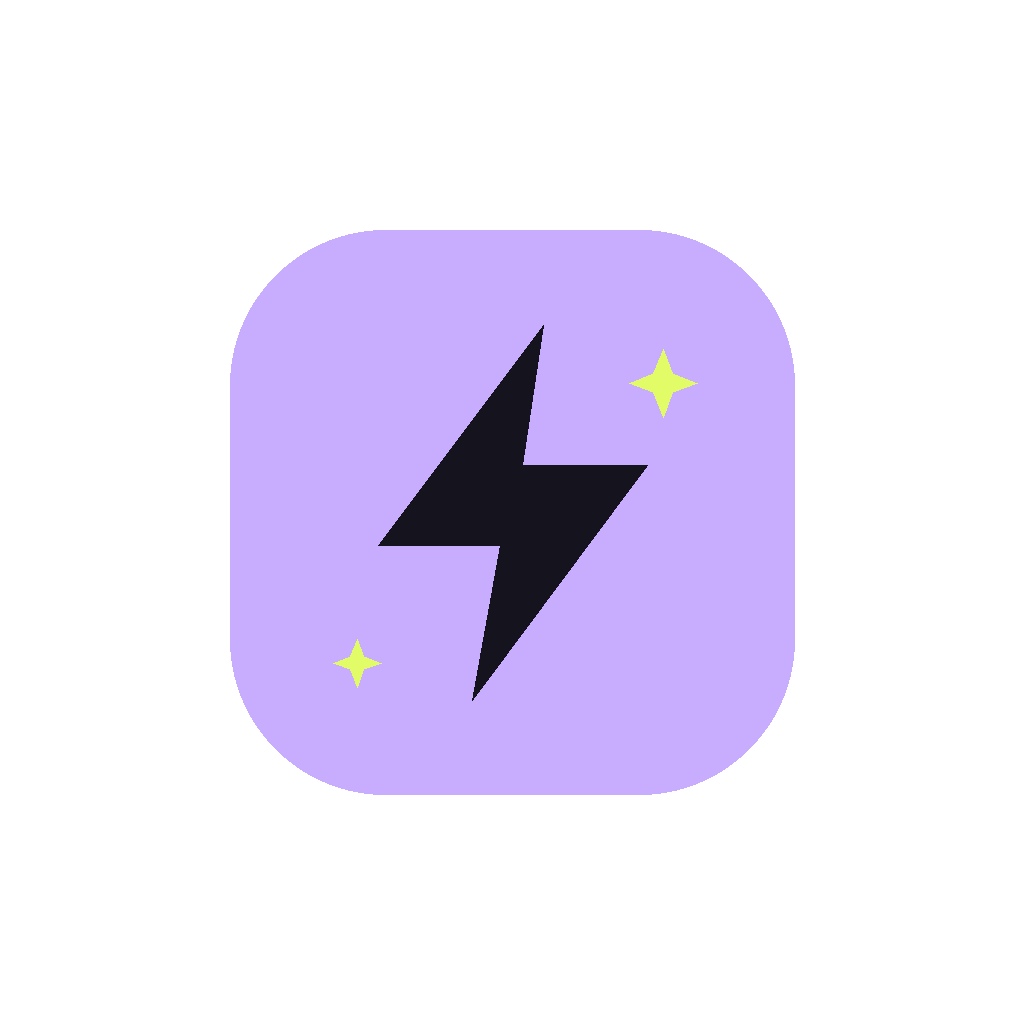
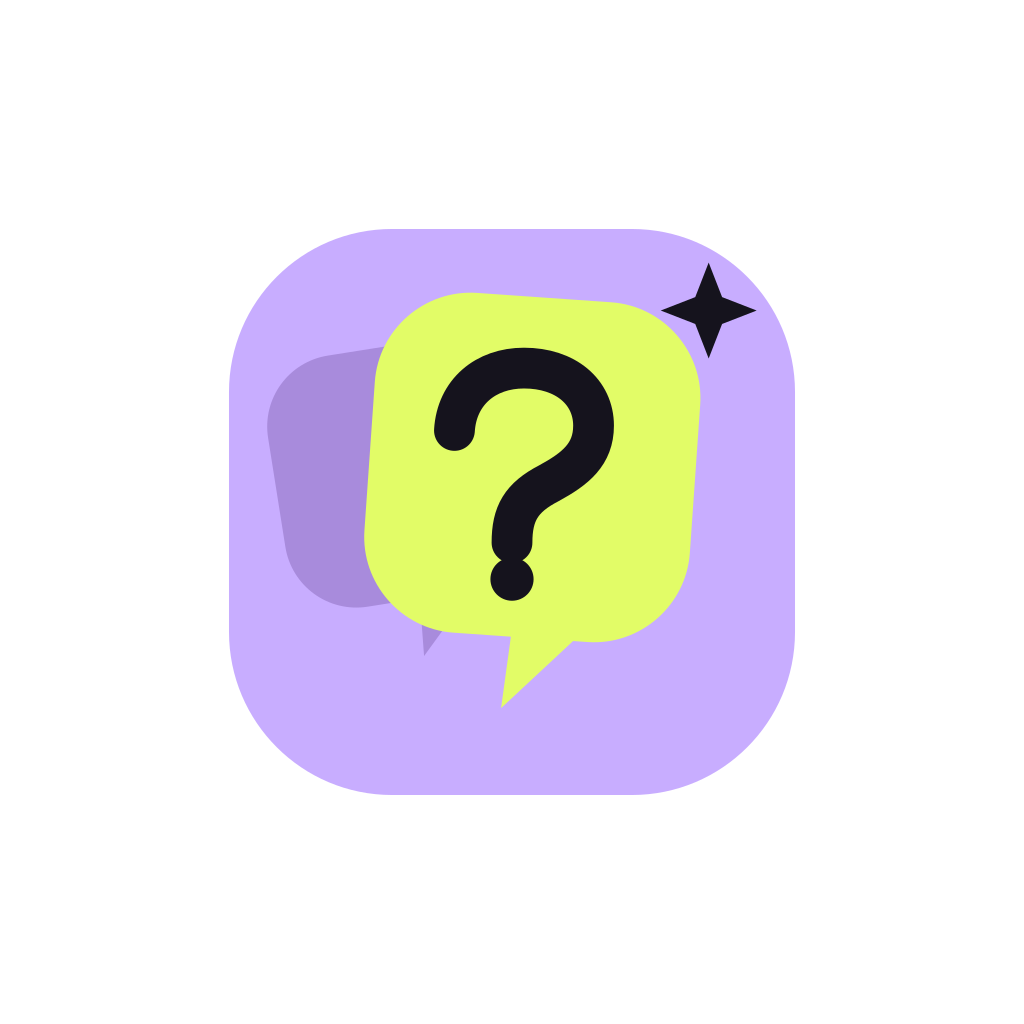
give blame game its own little mark

Changed region(s): [[0.25, 0.25, 0.75, 0.6875], [0.3125, 0.625, 0.375, 0.6562]]

diff --git a/src/BrandMark.tsx b/src/BrandMark.tsx
@@ -1,0 +1,73 @@
+import { Text, View, type StyleProp, type TextStyle, type ViewStyle } from 'react-native';
+import Svg, { Circle, Path, Rect } from 'react-native-svg';
+
+const INK = '#15131d';
+const LILAC = '#c8adff';
+const LIME = '#e2fc67';
+const SPARKLE = 'm105 12 2.8 7.2 7.2 2.8-7.2 2.8-2.8 7.2-2.8-7.2-7.2-2.8 7.2-2.8Z';
+
+export type BrandMarkProps = {
+  /** Width and height of the icon tile, in logical pixels. */
+  size?: number;
+  /** Wordmark color, set this to the current foreground color in light or dark UI. */
+  color?: string;
+  /** Hide the stacked wordmark when only the icon is needed. */
+  iconOnly?: boolean;
+  style?: StyleProp<ViewStyle>;
+};
+
+/** A prompt-card icon and stacked Blame Game wordmark. */
+export function BrandMark({ size = 42, color = '#fbf7ff', iconOnly = false, style }: BrandMarkProps) {
+  const wordStyle: TextStyle = {
+    color,
+    fontFamily: 'BarlowCondensed_900Black',
+    fontSize: size * 0.49,
+    letterSpacing: size * 0.016,
+    lineHeight: size * 0.405,
+  };
+
+  return (
+    <View
+      accessible
+      accessibilityRole="image"
+      accessibilityLabel="Blame Game"
+      style={[{ flexDirection: 'row', alignItems: 'center', gap: size * 0.24 }, style]}
+    >
+      <Svg width={size} height={size} viewBox="0 0 128 128" accessible={false}>
+        <Rect x="5" y="5" width="118" height="118" rx="34" fill={LILAC} />
+        <Path
+          d="M30 29h27c8.3 0 15 6.7 15 15v23c0 8.3-6.7 15-15 15h-5L40 94l1-12H30c-8.3 0-15-6.7-15-15V44c0-8.3 6.7-15 15-15Z"
+          fill="#a88bdc"
+          transform="rotate(-9 43 58)"
+        />
+        <Path
+          d="M54 19h28c11 0 20 9 20 20v31c0 11-9 20-20 20h-3l-14 15 1-15H54c-11 0-20-9-20-20V39c0-11 9-20 20-20Z"
+          fill={LIME}
+          transform="rotate(4 65 58)"
+        />
+        <Path
+          d="M52 47c.5-8 6.5-13 14.5-13 8.7 0 14.5 5 14.5 12 0 6-3.8 9-9.3 12-5.8 3-7.7 6.3-7.7 12.4"
+          fill="none"
+          stroke={INK}
+          strokeLinecap="round"
+          strokeWidth="8.5"
+        />
+        <Circle cx="64" cy="78" r="4.5" fill={INK} />
+        <Path d={SPARKLE} fill={INK} />
+      </Svg>
+      {!iconOnly && (
+        <View accessible={false}>
+          <Text style={wordStyle}>BLAME</Text>
+          <View style={{ flexDirection: 'row', alignItems: 'center', gap: size * 0.1 }}>
+            <Text style={wordStyle}>GAME</Text>
+            <Svg width={size * 0.17} height={size * 0.17} viewBox="0 0 16 16" accessible={false}>
+              <Path d="M8 0 9.8 6.2 16 8l-6.2 1.8L8 16l-1.8-6.2L0 8l6.2-1.8Z" fill={LIME} />
+            </Svg>
+          </View>
+        </View>
+      )}
+    </View>
+  );
+}
+
+export default BrandMark;
